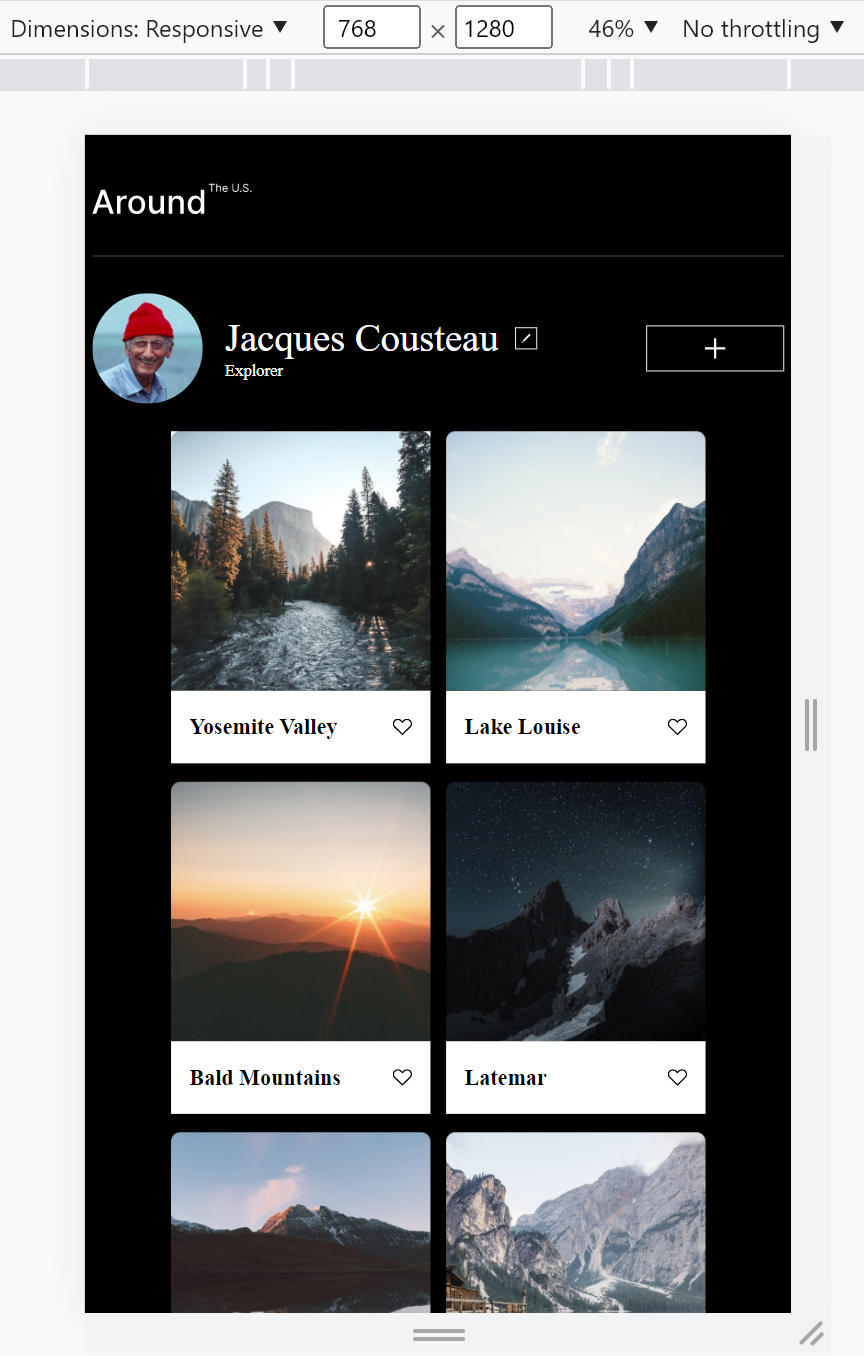
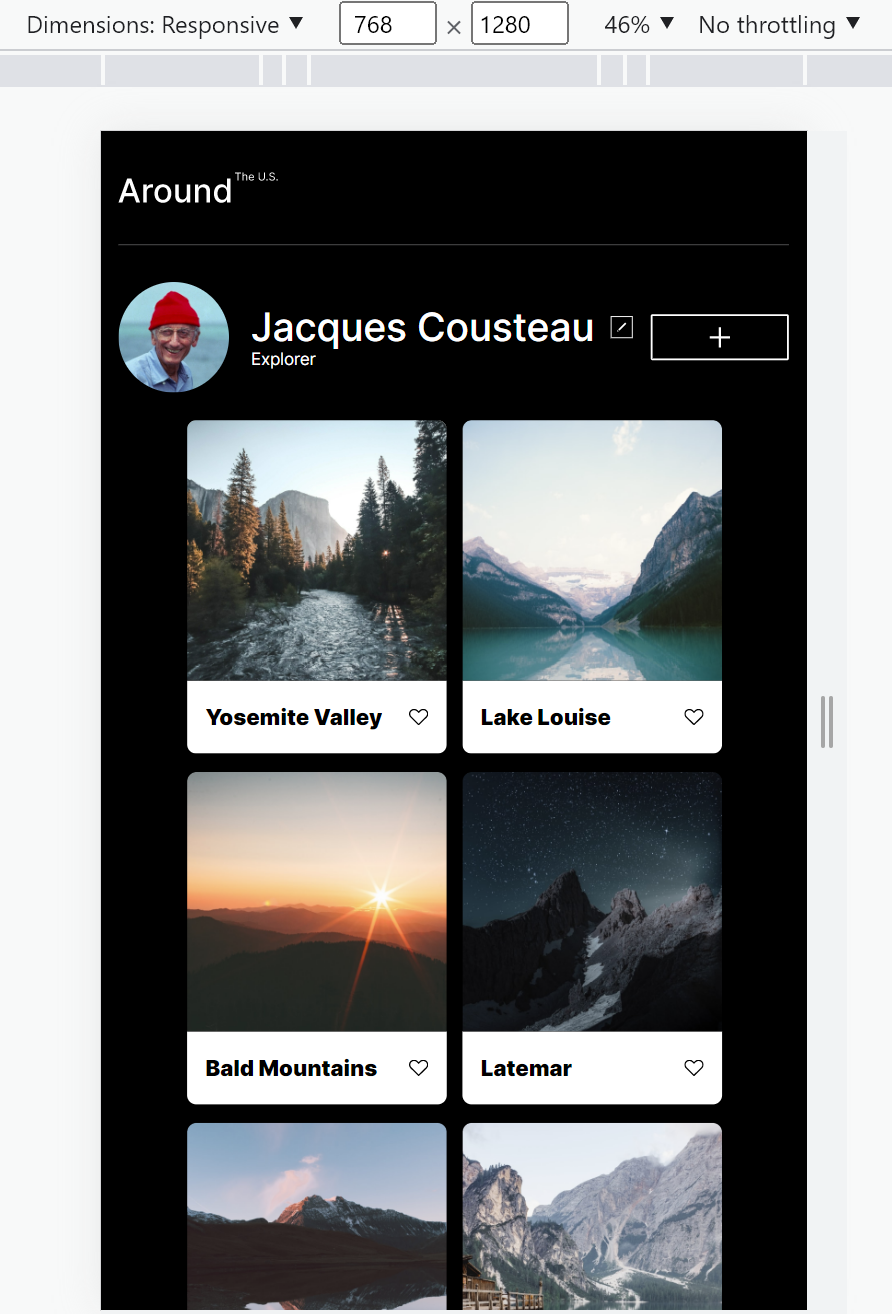
Updated code review for project 3 submission

diff --git a/blocks/card.css b/blocks/card.css
@@ -1,23 +1,26 @@
-.cards {
-  margin-top: 30px;
-}
-.cards__list {
-  display: grid;
-  justify-content: center;
-  grid-template-columns: repeat(auto-fit, 282px);
-  grid-gap: 20px 17px;
-  padding: 0;
-  margin: 0;
-}
 .card {
   display: flex;
   flex-direction: column;
   border-radius: 10px;
   list-style: none;
+  overflow: hidden;
+}
+.card__title {
+  font-family: "Inter", Arial, sans-serif;
+  max-width: 220px;
+  font-size: 24px;
+  font-weight: 900;
+  line-height: 29px;
+  text-overflow: ellipsis;
+  white-space: nowrap;
+  overflow: hidden;
+  margin: 0;
 }
 .card__image {
   width: 282px;
   height: 282px;
+  object-fit: cover;
+  border-radius: 10px 10px 0px 0px;
 }
 .card__description {
   display: flex;
@@ -30,16 +33,6 @@
   align-items: center;
   justify-content: space-between;
 }
-.card__title {
-  max-width: 220px;
-  font-size: 24px;
-  font-weight: 900;
-  line-height: 29px;
-  text-overflow: ellipsis;
-  white-space: nowrap;
-  overflow: hidden;
-  margin: 0;
-}
 .card__like-button {
   background: transparent url(../images/heart.svg) center no-repeat;
   width: 21px;
@@ -49,10 +42,4 @@
 .card__like-button:hover {
   opacity: 0.5;
   cursor: pointer;
-}
-@media screen and (max-width: 480px) {
-  card__list {
-    padding: 15px 0px 18px;
-    grid-gap: 20px 19px;
-  }
 }

diff --git a/blocks/footer.css b/blocks/footer.css
@@ -1,31 +1,23 @@
 .footer {
-  padding-left: 200px;
   padding-bottom: 60px;
   padding-top: 67px;
   color: #545454;
   font-family: Inter, Arial, sans-serif;
-  line-height: 1.2;
-  width: 318px;
-  margin: 0;
+  font-weight: 400;
 }
 .footer__copyright {
-  margin: 0;
-  padding: 0;
+  font-size: 18px;
+  line-height: 22px;
 }
-@media screen and (max-width: 1100px) {
+
+@media screen and (max-width: 595px) {
   .footer {
-    padding-left: 100px;
-    margin: 0;
+    max-width: 282px;
+    padding: 48px 0 36px 0;
   }
-}
-@media screen and (max-width: 480px) {
-  .footer {
-    justify-content: start;
-    display: flex;
-    width: 282px;
-    height: 14px;
-    padding-left: 19px;
-    padding-bottom: 36px;
-    padding-right: 48px;
+
+  .footer__copyright {
+    font-size: 14px;
+    line-height: 17px;
   }
 }

diff --git a/blocks/profile.css b/blocks/profile.css
@@ -31,8 +31,10 @@
   background: transparent url(../images/add.svg) center no-repeat;
   width: 150px;
   height: 50px;
+  border-radius: 2px;
   margin-left: auto;
-  border: 1px solid white;
+  box-sizing: border-box;
+  border: 2px solid white;
 }
 .profile__add-button:hover {
   opacity: 0.6;
@@ -40,6 +42,7 @@
 }
 .profile__title {
   font-size: 42px;
+  font-family: "Inter", Arial, sans-serif;
   line-height: 48px;
   font-weight: 500;
   grid-area: title;
@@ -49,6 +52,7 @@
   overflow: hidden;
 }
 .profile__description {
+  font-family: "Inter", Arial, sans-serif;
   font-size: 18px;
   line-height: 22px;
   font-weight: 400;
@@ -98,7 +102,7 @@
   .profile__add-button {
     margin: 0;
     width: 100%;
-    width: 282px;
+    max-width: 282px;
     height: 50px;
   }
   .profile__edit-button {

diff --git a/blocks/page.css b/blocks/page.css
@@ -1,6 +1,7 @@
 .page {
   background-color: black;
   color: white;
+  font-family: "Inter", Arial, sans-serif;
 }
 .page__section {
   max-width: 880px;
@@ -14,17 +15,9 @@
   min-height: 100vh;
 }
 
-@media screen and(max-width:1100px) {
+@media screen and (max-width: 1100px) {
   .page__section {
-    margin: 0;
-    margin-left: 20px;
-    max-width: 100%;
-  }
-}
-@media screen and (max-width: 480px) {
-  .page__section {
-    margin: 0;
     margin-left: 19px;
-    max-width: 100%;
+    width: calc(100% - 40px);
   }
 }

diff --git a/index.html b/index.html
@@ -4,6 +4,9 @@
     <meta charset="UTF-8" />
     <meta http-equiv="X-UA-Compatible" content="IE=edge" />
     <meta name="viewport" content="width=device-width, initial-scale=1.0" />
+    <meta name="description" content="Free Web tutorials for HTML and CSS" />
+    <meta name="author" content="Saumya Nayak" />
+    <meta name="keywords" content="HTML,CSS" />
     <title>Around the U.S</title>
     <link rel="icon" href="favicon.ico" />
     <link rel="stylesheet" href="./pages/index.css" />

diff --git a/blocks/cards.css b/blocks/cards.css
@@ -1,0 +1,24 @@
+.cards {
+  margin: 0 auto;
+  margin-top: 30px;
+  font-family: "Inter", Arial, sans-serif;
+  font-weight: 900;
+  font-size: 24px;
+  line-height: 29px;
+  max-width: 880px;
+}
+.cards__list {
+  display: grid;
+  justify-content: center;
+  grid-template-columns: repeat(auto-fit, 282px);
+  grid-gap: 20px 17px;
+  padding: 0;
+  margin: 0;
+}
+
+@media screen and (max-width: 480px) {
+  cards__list {
+    padding: 15px 0px 18px;
+    grid-gap: 20px 19px;
+  }
+}

diff --git a/pages/index.css b/pages/index.css
@@ -4,4 +4,5 @@
 @import url(../blocks/header.css);
 @import url(../blocks/profile.css);
 @import url(../blocks/card.css);
+@import url(../blocks/cards.css);
 @import url(../blocks/footer.css);

diff --git a/blocks/header.css b/blocks/header.css
@@ -4,6 +4,7 @@
   border-bottom: 1px solid #545455;
   padding-bottom: 41px;
 }
+
 @media screen and (max-width: 480px) {
   .header {
     margin: 0;

diff --git a/README.md b/README.md
@@ -16,10 +16,11 @@ This project is made so all the elements are displayed correctly on popular scre
 - [Link to the project on Github](https://saumyanaya.github.io/se_project_aroundtheus/index.html)
 
 **Images**
-This link contains desktop view tablet view and mobile view
+This link contains desktop view.....tablet view......and mobile view
 
 ![desktop view](./images/demo/desktop_view.png)
+![desktop view](./images/demo/desktop_view1.png)
 ![tablet view](./images/demo/tablet_view.png)
-![mobile view](./images/demo/mobile_view.png)
-
-Had Fun..
+![tablet view](./images/demo/tablet_view1.png)
+![mobo view](./images/demo/mobo_view.png)
+![mobo view](./images/demo/mobo_view1.png)
